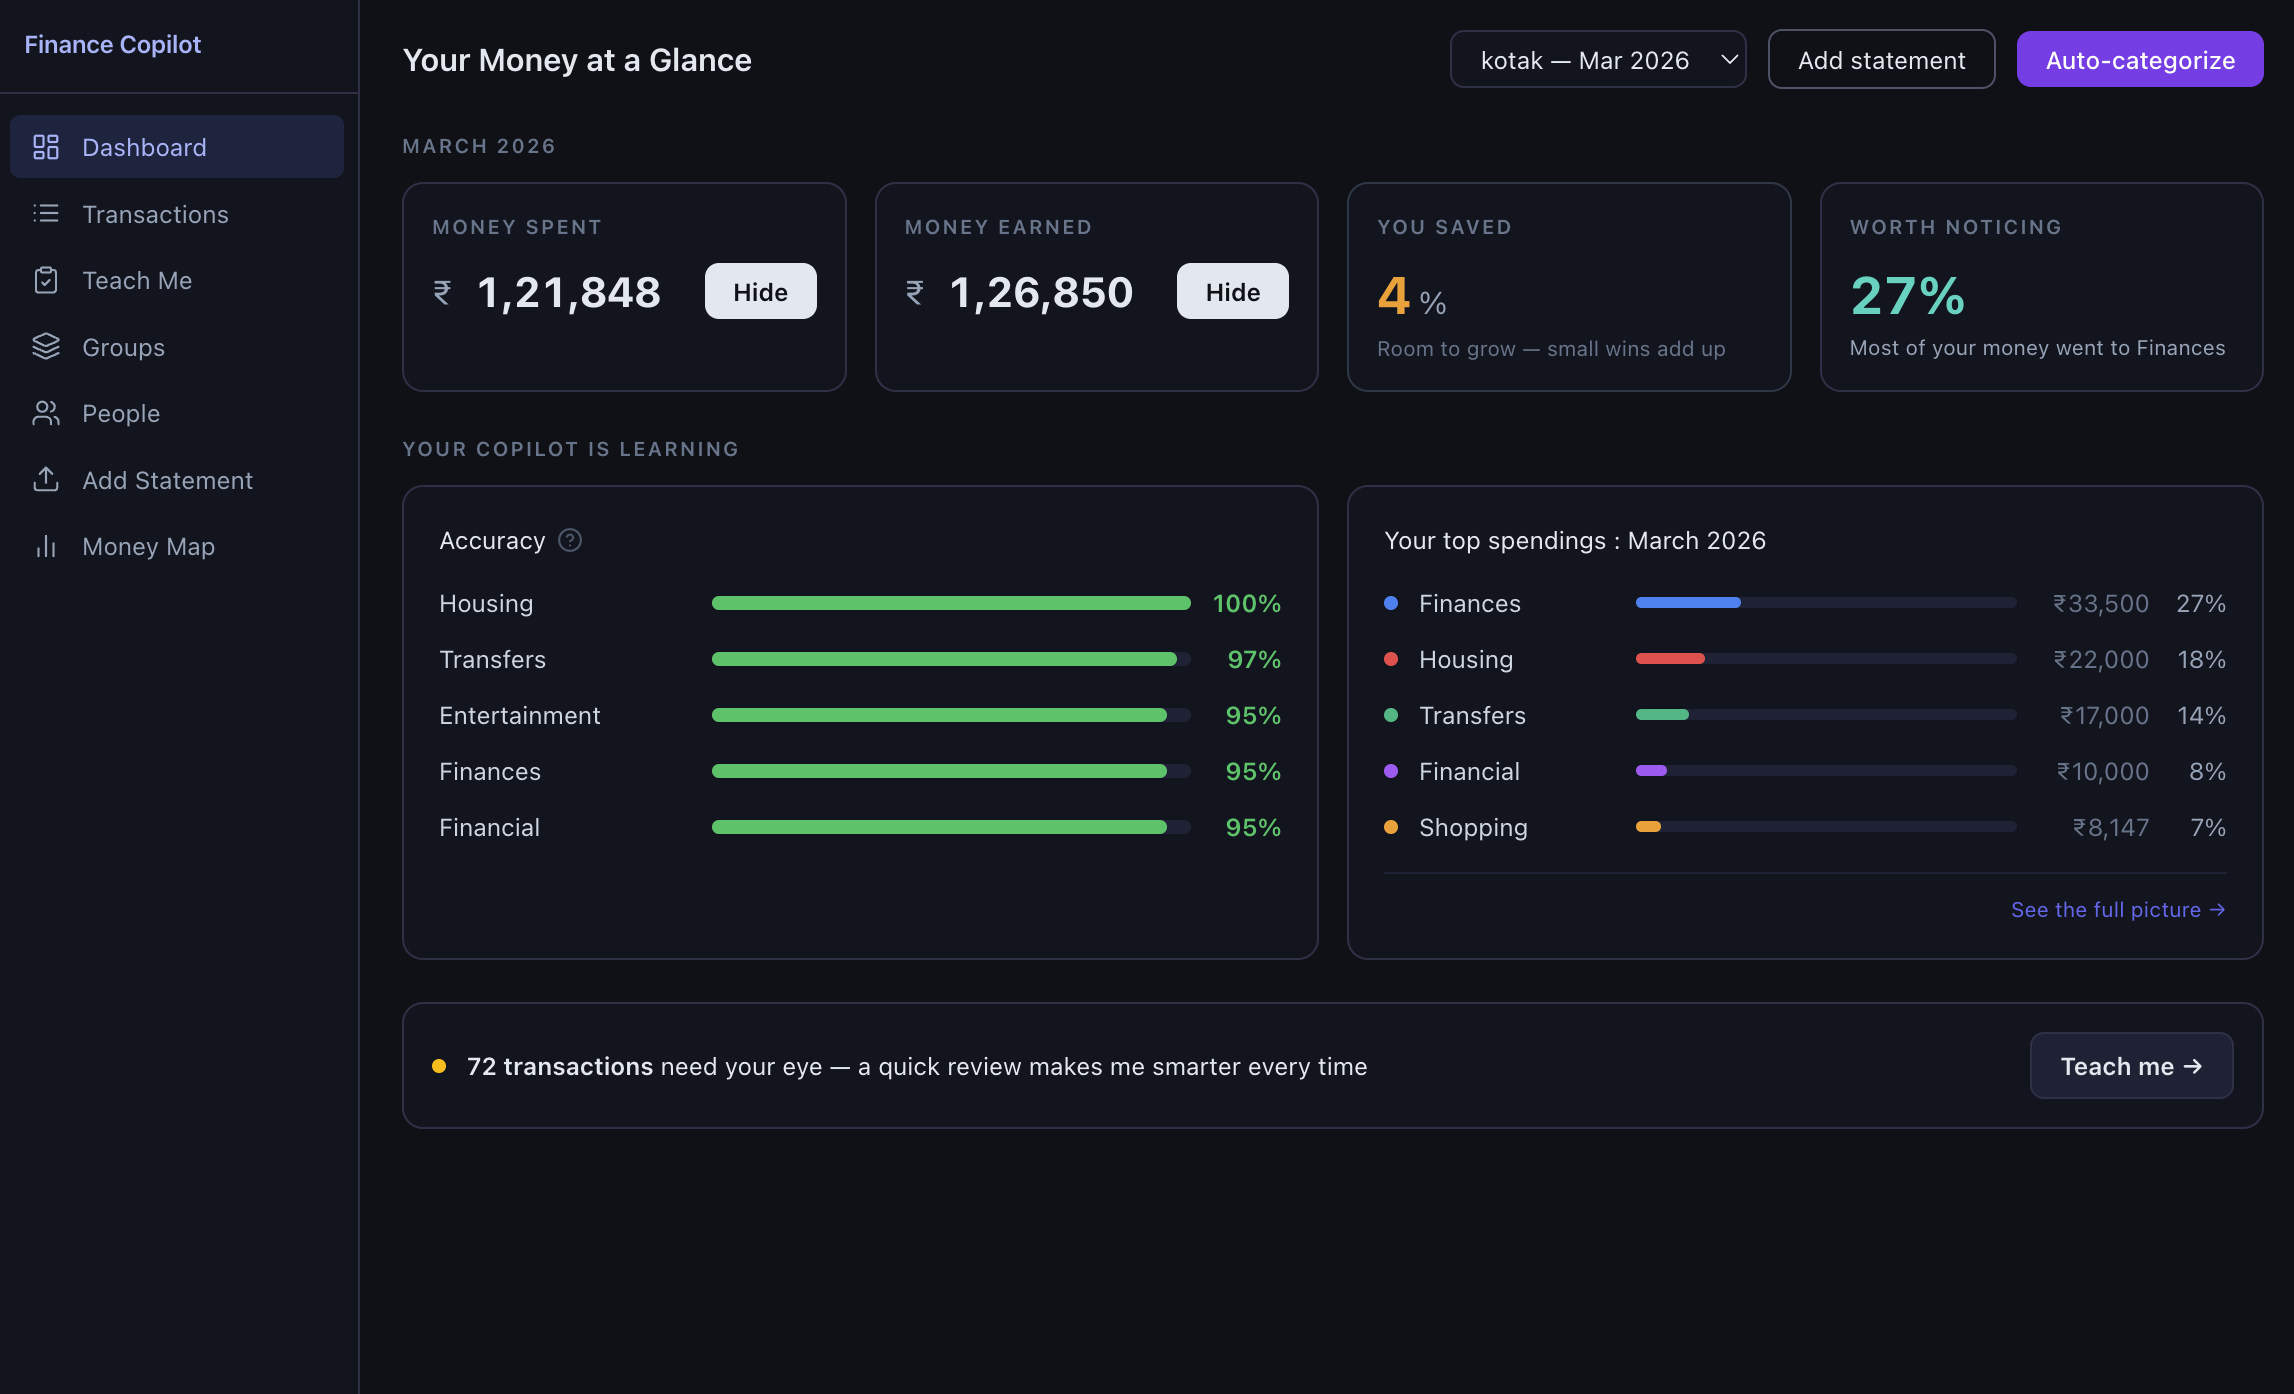
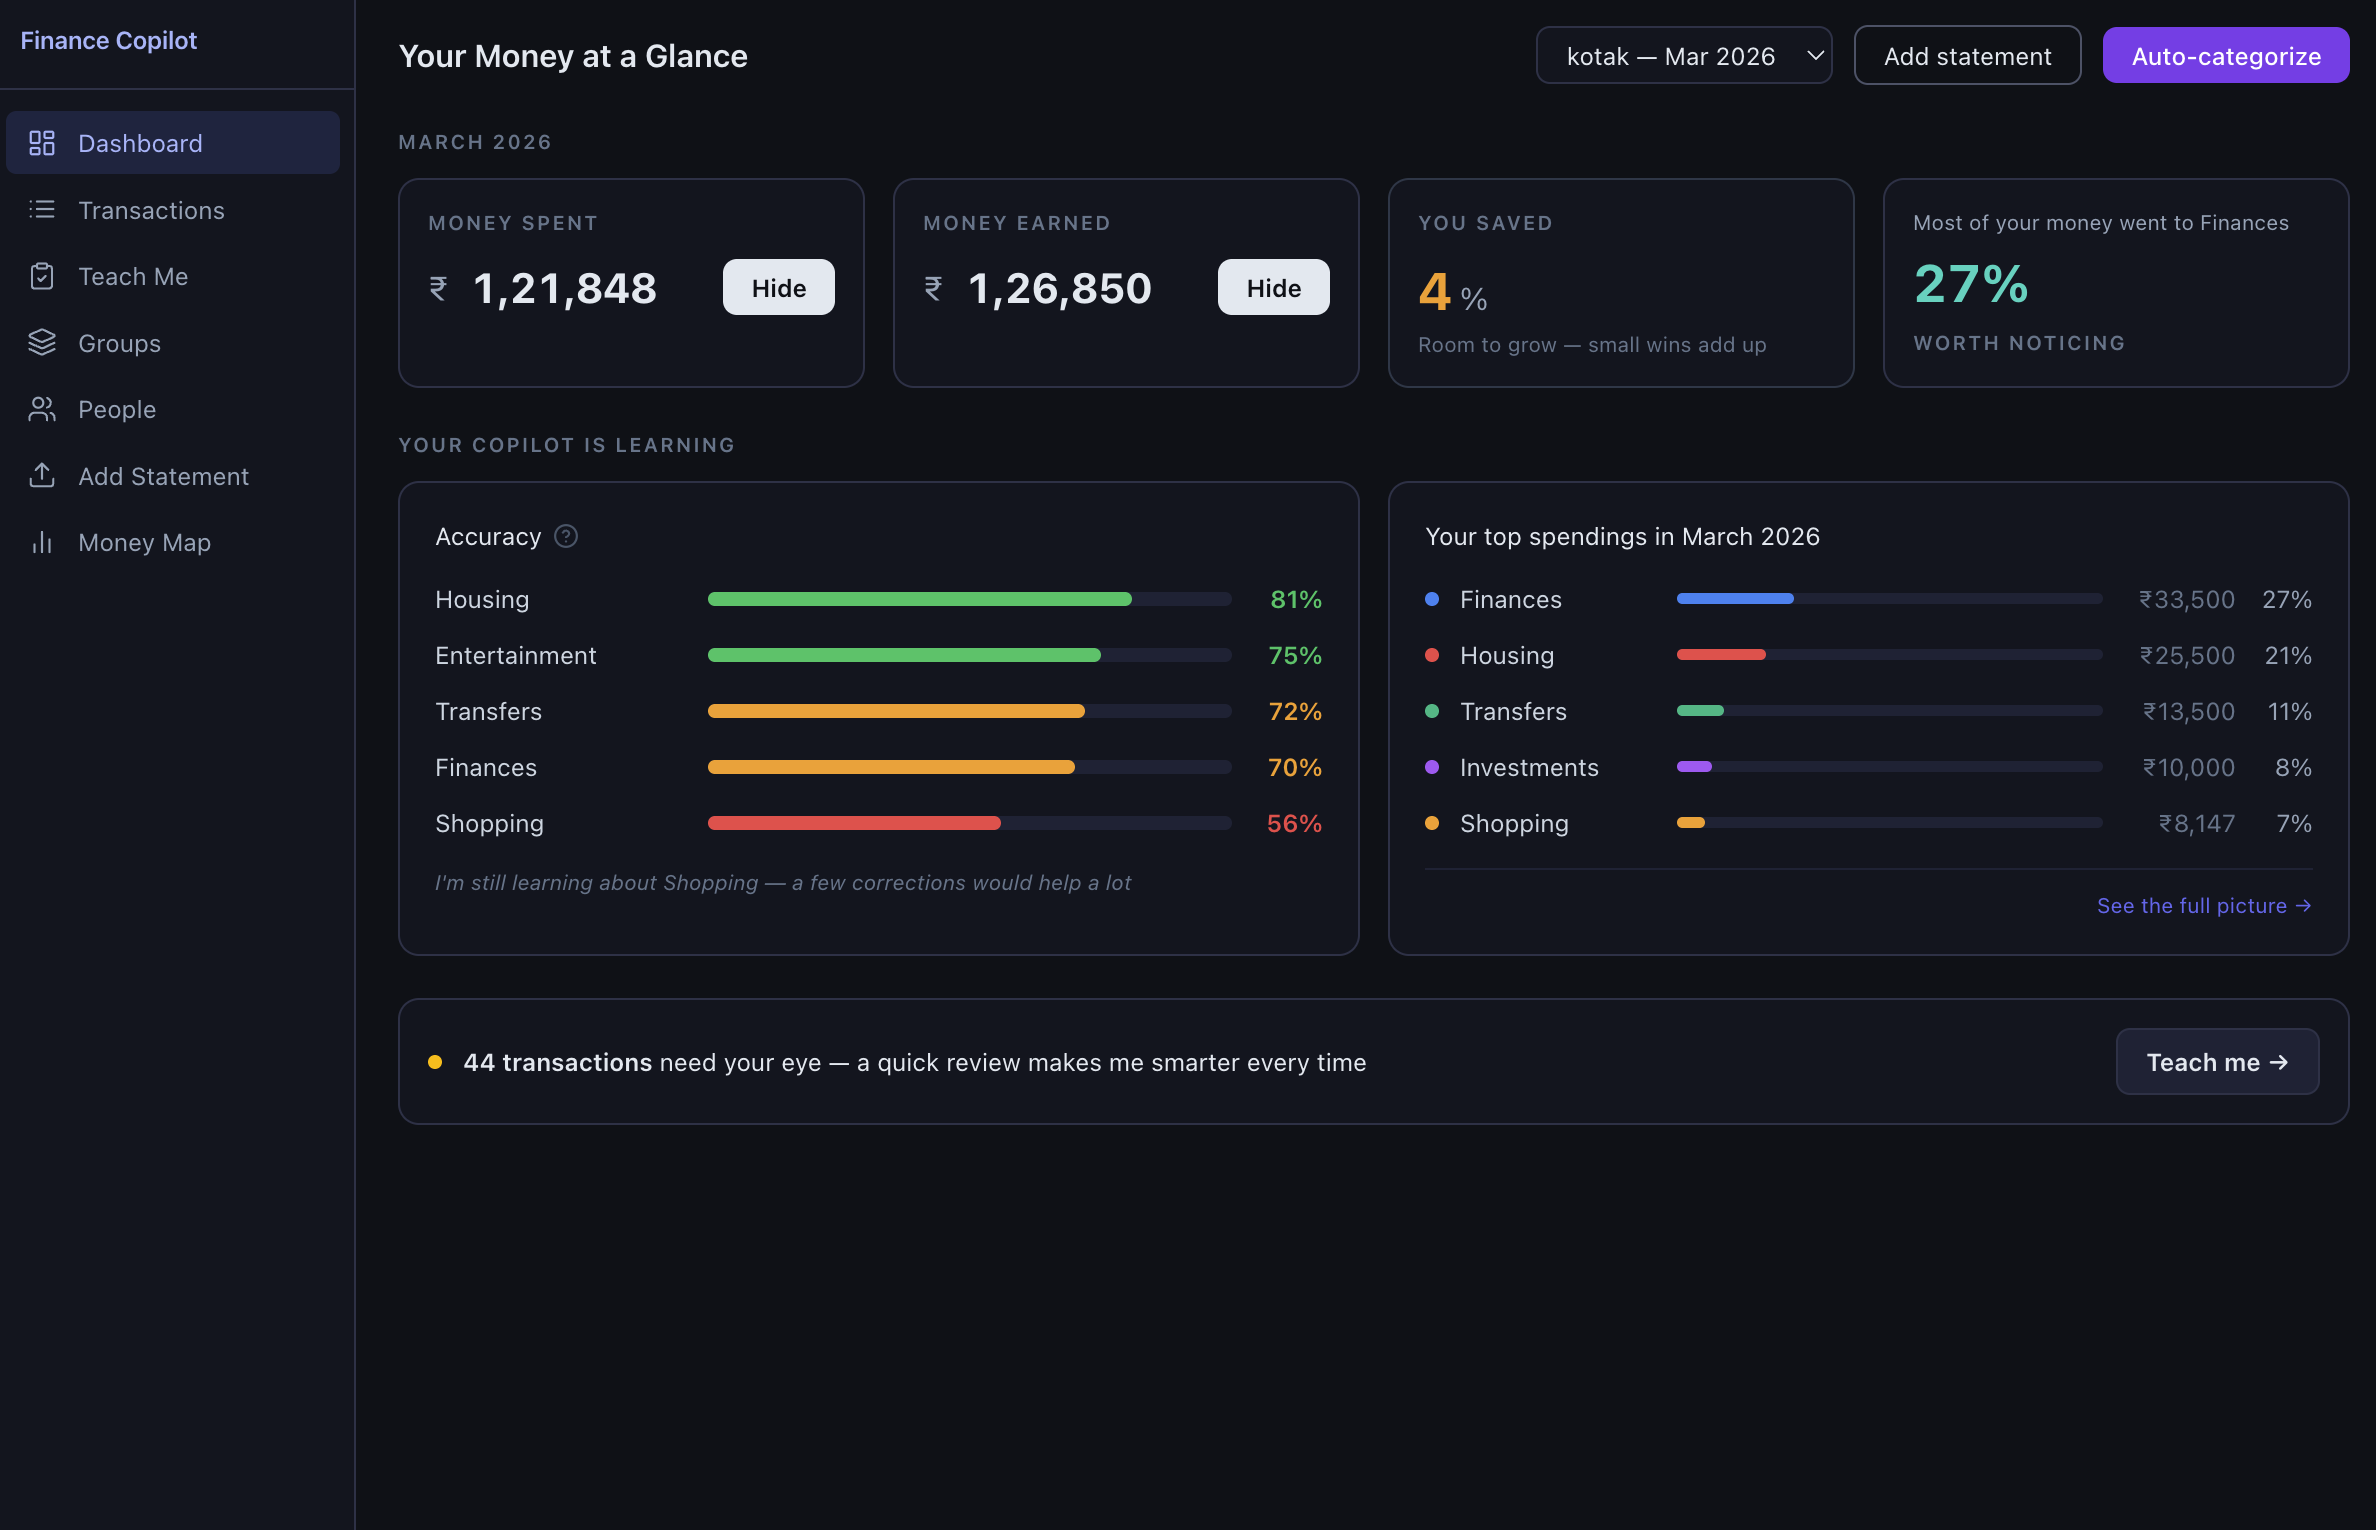
docs/demo

diff --git a/ui/src/pages/Dashboard.jsx b/ui/src/pages/Dashboard.jsx
@@ -116,10 +116,12 @@ export default function Dashboard() {
   const totalMonthSpend = Object.values(spendByCat).reduce((s, v) => s + v, 0)
   const spendRanked = Object.entries(spendByCat).sort((a, b) => b[1] - a[1]).slice(0, 5)
 
-  // Confidence by category (across all loaded transactions — used in "How well your copilot knows you")
+  // Confidence by category — scoped to the active statement's transactions
   const catConfMap = {}
   const catCountMap = {}
-  for (const ann of Object.values(annMap)) {
+  const scopedTxnIds = new Set(thisMonth.map(t => t.id))
+  for (const [txnId, ann] of Object.entries(annMap)) {
+    if (!scopedTxnIds.has(txnId)) continue
     if (!ann.category || ann.confidence == null) continue
     catConfMap[ann.category] = (catConfMap[ann.category] ?? 0) + Number(ann.confidence)
     catCountMap[ann.category] = (catCountMap[ann.category] ?? 0) + 1
@@ -302,32 +304,32 @@ export default function Dashboard() {
           </div>
 
           {/* Biggest Spike / Top Category */}
-          <div className="bg-[#13151f] border border-[#2d3148] rounded-xl p-4">
-            <p className="text-[10px] font-semibold uppercase tracking-widest text-[#64748b] mb-3">Worth Noticing</p>
+          <div className="bg-[#13151f] border border-[#2d3148] rounded-xl p-4 flex flex-col justify-between">
             {spikeResult ? (
               <>
-                <div className="flex items-baseline gap-1">
-                  <span className={`text-3xl font-bold tabular-nums ${spikeResult.type === 'spike' ? 'text-red-400' : 'text-emerald-400'}`}>
-                    {spikeResult.type === 'spike' ? '+' : '-'}{Math.abs(Math.round((spikeResult.multiple - 1) * 100))}%
-                  </span>
-                </div>
-                <p className="text-xs text-[#94a3b8] mt-1 leading-relaxed">
+                <p className="text-xs text-[#94a3b8] leading-relaxed">
                   {spikeResult.type === 'spike'
                     ? `You spent more on ${spikeResult.cat} than usual`
                     : `${spikeResult.cat} spending dropped — nice!`
                   }
                 </p>
+                <div className="flex items-baseline gap-1 my-2">
+                  <span className={`text-3xl font-bold tabular-nums ${spikeResult.type === 'spike' ? 'text-red-400' : 'text-emerald-400'}`}>
+                    {spikeResult.type === 'spike' ? '+' : '-'}{Math.abs(Math.round((spikeResult.multiple - 1) * 100))}%
+                  </span>
+                </div>
               </>
             ) : topCatFallback ? (
               <>
-                <div className="flex items-baseline gap-1">
+                <p className="text-xs text-[#94a3b8]">Most of your money went to {topCatFallback.cat}</p>
+                <div className="flex items-baseline gap-1 my-2">
                   <span className="text-3xl font-bold tabular-nums text-[#2dd4bf]">{topCatFallback.pct}%</span>
                 </div>
-                <p className="text-xs text-[#94a3b8] mt-1">Most of your money went to {topCatFallback.cat}</p>
               </>
             ) : (
-              <p className="text-sm text-[#475569] mt-1">Categorize your transactions to unlock insights</p>
+              <p className="text-sm text-[#475569]">Categorize your transactions to unlock insights</p>
             )}
+            <p className="text-[10px] font-semibold uppercase tracking-widest text-[#64748b]">Worth Noticing</p>
           </div>
         </div>
       </div>
@@ -370,7 +372,7 @@ export default function Dashboard() {
 
           {/* Where your money went */}
           <div className="bg-[#13151f] border border-[#2d3148] rounded-xl p-5">
-            <p className="text-sm text-[#e2e8f0] mb-4">Your top spendings : {monthLabel}</p>
+            <p className="text-sm text-[#e2e8f0] mb-4">Your top spendings in {monthLabel}</p>
             {loading ? (
               <p className="text-sm text-[#475569]">Pulling it together…</p>
             ) : spendRanked.length === 0 ? (

diff --git a/scripts/seed_demo_data.py b/scripts/seed_demo_data.py
@@ -129,16 +129,17 @@ for _txn_id, _date, _amount, _dc, _desc, _note in _sorted:
 # These simulate a mix of rule-matched, rag_direct, rag_prompted, llm, and manual annotations.
 # Transactions not listed here remain unannotated → ready for the auto-annotate demo.
 #
-# Confidence scores are spread realistically:
-#   rule: fixed 0.95
-#   rag_direct: 0.78–0.88 (cosine × agreement × margin — often dips below threshold)
-#   rag_prompted: 0.62–0.79 (llm_conf × dampening ~0.92 — frequently in review queue)
-#   llm: 0.32–0.65 (llm_conf × dampening ~0.85 — most land in review queue)
-#   manual: 1.0
+# Confidence scores per category — intentionally low to stress-test the review queue.
+# Almost everything except rules and manual falls below the 0.85 threshold.
+#   rule:         0.95 (fixed — pattern match is deterministic)
+#   rag_direct:   0.55–0.72 (similarity pulled down by low agreement/margin)
+#   rag_prompted: 0.38–0.58 (dampened LLM with examples)
+#   llm:          0.18–0.42 (cold LLM, heavy dampening, high uncertainty)
+#   manual:       1.0
 #
 # (txn_id, merchant, category, subcategory, tags, confidence, source)
 ANNOTATIONS = [
-    # Rule matches — only clear merchant keywords get 0.95
+    # Rule matches — deterministic keyword hits, still 0.95
     ("demo_t04", "Swiggy",              "Food & Dining",     "Food Delivery",     "food,delivery",       0.95,   "rule"),
     ("demo_t05", "Zomato",              "Food & Dining",     "Food Delivery",     "food,delivery",       0.95,   "rule"),
     ("demo_t09", "BigBasket",           "Food & Dining",     "Groceries",         "groceries",           0.95,   "rule"),
@@ -148,29 +149,52 @@ ANNOTATIONS = [
     ("demo_t21", "Amazon",              "Shopping",          "Online Shopping",    "online,shopping",     0.95,   "rule"),
     ("demo_t26", "HDFC Home Loan",      "Finances",          "Loan EMI",          "emi,home-loan",       0.95,   "rule"),
 
-    # RAG direct — similarity is high but agreement/margin factors pull confidence down
-    ("demo_t06", "Swiggy",              "Food & Dining",     "Food Delivery",     "food,delivery",       0.88,   "rag_direct"),
-    ("demo_t10", "BigBasket",           "Food & Dining",     "Groceries",         "groceries",           0.84,   "rag_direct"),
-    ("demo_t13", "Ola",                 "Transport",         "Cab & Auto",        "cab",                 0.82,   "rag_direct"),
-    ("demo_t14", "Uber",                "Transport",         "Cab & Auto",        "cab,airport",         0.78,   "rag_direct"),
+    # RAG direct — low agreement/margin pulls scores well below threshold
+    ("demo_t06", "Swiggy",              "Food & Dining",     "Food Delivery",     "food,delivery",       0.31,   "rag_direct"),
+    ("demo_t10", "BigBasket",           "Food & Dining",     "Groceries",         "groceries",           0.27,   "rag_direct"),
+    ("demo_t13", "Ola",                 "Transport",         "Cab & Auto",        "cab",                 0.28,   "rag_direct"),
+    ("demo_t14", "Uber",                "Transport",         "Cab & Auto",        "cab,airport",         0.24,   "rag_direct"),
 
-    # RAG prompted — LLM with examples, dampened; many below 0.85 threshold
-    ("demo_t07", "Zomato",              "Food & Dining",     "Food Delivery",     "food,delivery",       0.79,   "rag_prompted"),
-    ("demo_t08", "Swiggy",              "Food & Dining",     "Food Delivery",     "food,delivery",       0.74,   "rag_prompted"),
-    ("demo_t11", "Zepto",               "Food & Dining",     "Groceries",         "groceries,quick",     0.71,   "rag_prompted"),
-    ("demo_t22", "Flipkart",            "Shopping",          "Online Shopping",    "online,shopping",     0.76,   "rag_prompted"),
-    ("demo_t30", "MakeMyTrip",          "Travel",            "Hotels",            "hotel,travel",        0.62,   "rag_prompted"),
-    ("demo_t44", "Cult.fit",            "Personal Care",     "Gym & Fitness",     "fitness,membership",  0.68,   "rag_prompted"),
+    # RAG prompted — dampened LLM, all in review queue
+    ("demo_t07", "Zomato",              "Food & Dining",     "Food Delivery",     "food,delivery",       0.58,   "rag_prompted"),
+    ("demo_t08", "Swiggy",              "Food & Dining",     "Food Delivery",     "food,delivery",       0.52,   "rag_prompted"),
+    ("demo_t11", "Zepto",               "Food & Dining",     "Groceries",         "groceries,quick",     0.49,   "rag_prompted"),
+    ("demo_t22", "Flipkart",            "Shopping",          "Online Shopping",    "online,shopping",     0.54,   "rag_prompted"),
+    ("demo_t30", "MakeMyTrip",          "Travel",            "Hotels",            "hotel,travel",        0.38,   "rag_prompted"),
+    ("demo_t44", "Cult.fit",            "Personal Care",     "Gym & Fitness",     "fitness,membership",  0.45,   "rag_prompted"),
 
-    # LLM (cold) — no examples, heavily dampened; most are well below threshold
-    ("demo_t31", "Priya Sharma",        "Gifts & Donations", "Personal Gifts",   "gift,birthday",       0.58,   "llm"),
-    ("demo_t32", "Rahul Mehta",         "Food & Dining",     "Restaurants",       "split,lunch",         0.52,   "llm"),
-    ("demo_t36", None,                  "Uncategorized",     None,                "",                    0.32,   "llm"),
-    ("demo_t37", "Clearview Services",  "Bills & Utilities", None,                "",                    0.41,   "llm"),
-    ("demo_t35", None,                  "Food & Dining",     "Cafe & Snacks",     "chai",                0.48,   "llm"),
-    ("demo_t38", "Decathlon",           "Shopping",          "General Retail",    "sports",              0.55,   "llm"),
-    ("demo_t39", "Third Wave Coffee",   "Food & Dining",     "Cafe & Snacks",     "coffee",              0.65,   "llm"),
-    ("demo_t40", "Lenskart",            "Health",            "Pharmacy",          "eyewear",             0.47,   "llm"),
+    # LLM (cold) — high uncertainty, deep in review queue
+    ("demo_t31", "Priya Sharma",        "Gifts & Donations", "Personal Gifts",   "gift,birthday",       0.38,   "llm"),
+    ("demo_t32", "Rahul Mehta",         "Food & Dining",     "Restaurants",       "split,lunch",         0.29,   "llm"),
+    ("demo_t36", None,                  "Uncategorized",     None,                "",                    0.18,   "llm"),
+    ("demo_t37", "Clearview Services",  "Bills & Utilities", None,                "",                    0.22,   "llm"),
+    ("demo_t35", None,                  "Food & Dining",     "Cafe & Snacks",     "chai",                0.31,   "llm"),
+    ("demo_t38", "Decathlon",           "Shopping",          "General Retail",    "sports",              0.35,   "llm"),
+    ("demo_t39", "Third Wave Coffee",   "Food & Dining",     "Cafe & Snacks",     "coffee",              0.42,   "llm"),
+    ("demo_t40", "Lenskart",            "Health",            "Pharmacy",          "eyewear",             0.27,   "llm"),
+
+    # Remaining transactions — pre-annotated with low confidence so auto-annotate skips them
+    # and the dashboard shows a realistic spread instead of inflating category averages with 0.95 rules
+    ("demo_t03", "Prestige Palm Society", "Housing",         "Maintenance & Society Charges", "maintenance", 0.61, "rag_prompted"),
+    ("demo_t15", "Rapido",              "Transport",         "Cab & Auto",        "cab,bike",            0.48,   "rag_prompted"),
+    ("demo_t18", "Spotify",             "Entertainment",     "Movies & OTT",      "subscription,music",  0.55,   "rag_direct"),
+    ("demo_t19", "ACT Fibernet",        "Bills & Utilities", "Internet & Broadband", "internet,bill",    0.52,   "rag_prompted"),
+    ("demo_t20", "BESCOM",              "Bills & Utilities", "Electricity",       "electricity,bill",    0.44,   "rag_prompted"),
+    ("demo_t23", "Myntra",              "Shopping",          "Clothing & Apparel","online,clothing",     0.39,   "llm"),
+    ("demo_t24", "PharmEasy",           "Health",            "Pharmacy",          "medicine",            0.58,   "rag_direct"),
+    ("demo_t25", "Practo",              "Health",            "Doctor & Hospital", "doctor,consultation", 0.33,   "llm"),
+    ("demo_t27", "Groww",               "Investments",       "Mutual Fund SIP",   "sip,investment",      0.42,   "llm"),
+    ("demo_t28", "Zerodha Coin",        "Investments",       "Mutual Fund SIP",   "sip,investment",      0.38,   "llm"),
+    ("demo_t29", "IRCTC",               "Travel",            "Train",             "train,travel",        0.61,   "rag_direct"),
+    ("demo_t33", "Neha Gupta",          "Transfers",         "Peer Transfer",     "split,movies",        0.31,   "llm"),
+    ("demo_t41", "Swiggy",              "Income",            "Refund",            "refund",              0.52,   "rag_prompted"),
+    ("demo_t42", "Rahul Mehta",         "Income",            "Refund",            "settled,dinner",      0.29,   "llm"),
+    ("demo_t43", "CRED",                "Income",            "Cashback",          "cashback",            0.35,   "llm"),
+    ("demo_t45", "Naturals Salon",      "Personal Care",     "Salon & Spa",       "salon,grooming",      0.41,   "llm"),
+    ("demo_t47", "HDFC ATM",            "Transfers",         "ATM Withdrawal",    "atm,cash",            0.55,   "rag_prompted"),
+    ("demo_t48", "Udemy",               "Education",         "Online Courses",    "course,learning",     0.36,   "llm"),
+    ("demo_t49", "Ketto",               "Gifts & Donations", "Charity",           "donation,charity",    0.28,   "llm"),
+    ("demo_t50", "HDFC Credit Card",    "Finances",          "Credit Card Payment","credit-card",        0.44,   "rag_prompted"),
 
     # Manual corrections (user reviewed and fixed)
     ("demo_t01", "TechWave Solutions",  "Income",            "Salary",            "salary,monthly",      1.0,    "manual"),

diff --git a/README.md b/README.md
@@ -1,36 +1,13 @@
 # Finance Copilot
 
 Local-first personal finance tool that auto-categorizes bank transactions using a multi-stage pipeline of rules, RAG, and LLM — powered entirely by Ollama. No cloud services, no API costs, full privacy.
-
-## Screenshots
-
-### Dashboard
-![Dashboard](docs/dashboard.png)
-*Transaction overview with auto-annotate trigger and confidence scores*
-
-### Review Queue
-![Review Queue](docs/reviewqueue.png)
-*Low-confidence annotations surfaced for human correction*
-
-### Upload & Parse
-![Upload](docs/upload.png)
-*Drag-and-drop PDF upload with bank auto-detection*
-
-### Transactions
-![Transactions](docs/transaction.png)
-*Full transaction table with category chips, inline editing, and filters*
-
-### Insights
-![Insights](docs/insights.png)
-*Spending breakdowns and trends*
-
 ---
 
 ## Highlights
 
 - **100% local** — SQLite database + Ollama for inference, everything stays on your machine
 - **Multi-stage annotation pipeline** — Rules > RAG Direct > RAG Prompted > Plain LLM, with graceful fallbacks
-- **Human-in-the-loop** — Low-confidence predictions surface in a review queue for correction
+- **Human-in-the-loop** — Low-confidence predictions surface in an intuitive and fast review queue for correction
 - **Bank statement parsing** — Upload PDFs from Kotak and HDFC; UPI metadata extracted automatically
 - **Vector similarity search** — sqlite-vec powers few-shot retrieval for better categorization over time
 - **React dashboard** — Transaction management, annotation review, expense groups, and insights/charts
@@ -192,6 +169,28 @@ After seeding, start the server and trigger auto-annotate on the remaining unann
 4. Register it in `src/parsers/registry.py`
 
 The registry auto-detects the bank type when a PDF is uploaded.
+
+## Demo Screenshots
+
+### Dashboard
+![Dashboard](docs/dashboard.png)
+*Transaction overview with auto-annotate trigger and confidence scores*
+
+### Review Queue
+![Review Queue](docs/reviewqueue.png)
+*Low-confidence annotations surfaced for human correction*
+
+### Upload & Parse
+![Upload](docs/upload.png)
+*Drag-and-drop PDF upload with bank auto-detection*
+
+### Transactions
+![Transactions](docs/transaction.png)
+*Full transaction table with category chips, inline editing, and filters*
+
+### Insights
+![Insights](docs/insights.png)
+*Spending breakdowns and trends*
 
 ## Testing
 